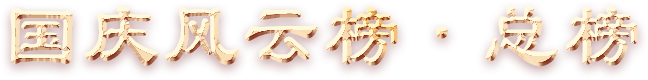
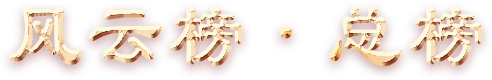
111

diff --git a/fengyun'/src/views/info.vue b/fengyun'/src/views/info.vue
@@ -48,7 +48,7 @@
                   {{ index === 0 ? '7000': (index === 1 ? '4700' : (index === 2 ? '3700' : ( index >=3 && index <=9 ? '2700' : ( index >=10 && index <=19 ? '2000' : (index >=20 && index <=29 ?'1200' : (index >=30 && index <=39 ?'1000' : (index >=40 && index <=49 ? '700' : (index >=50 && index <=59 ? '500' :'300')))))))) }}元京东购物卡
                 </td>
               </tr>
-              <tr v-if="rankingList.length != 0" class="nolist">
+              <tr v-if="rankingList.length == 0" class="nolist">
                 <td>暂无数据</td>
               </tr>
             </tbody>
@@ -71,11 +71,10 @@
         <div class="dialogContent">
           <div class="content">
             <span>1、活动时间：2019年09月29日0:00:00-2019年10月7日23:59:59</span>
-            <span>2、国庆风云榜分为活动期间的总排行榜（简称“总榜”）和每日排行榜（简称“日榜”）。</span>
+            <span>2、风云榜分为活动期间的总排行榜（简称“总榜”）和每日排行榜（简称“日榜”）。</span>
             <span>3、活动期间总榜的前70名用户和日榜的前10名用户均可获得奖励（若出借金额相同时，以出借时间较早者优先排名获奖），每日排名将于当日0:00更新，可点击“查看往期排名”，查看中奖记录。</span>
-            <span>4、兑奖时间为2019年10月9日-2019年10月12日16点，和掌柜客服将每日通知前一日中奖用户信息，并于国庆节后统一兑奖，若超过活动兑奖时间，恕不兑奖。</span>
-            <span>5、本活动最终解释权归成都融证通互联网信息服务有限公司所有，活动期间若发现任何非正常获利行为，有权取消其活动资格。</span>
-            <span>6、如有疑问请致电和掌柜客服电话400-020-0178或添加和掌柜客服微信号（a139lc）进行咨询。</span>
+            <span>4、兑奖时间为2019年10月9日-2019年10月12日16点，和掌柜客服将每日通知前一日中奖用户信息，并于节后统一兑奖，若超过活动兑奖时间，恕不兑奖。</span>
+            <span>5、如有疑问请致电和掌柜客服电话400-020-0178或添加和掌柜客服微信号（a139lc）进行咨询。</span>
           </div>
         </div>
       </van-dialog>
@@ -224,7 +223,7 @@
 
       .ranking_banner {
         margin-top: 20px;
-        width: 648px;
+        width: 492px;
         height: 80px;
 
         img {

diff --git a/jjl/src/view/login.vue b/jjl/src/view/login.vue
@@ -22,7 +22,7 @@
     <van-button class="submit_btn" type="default" round :loading="login_loading" @click="login">确定</van-button>
     <div class="tips">
       <p>网贷有风险 出借需谨慎</p>
-      <p>本活动最终解释权归成都融证通互联网信息服务有限公司所有</p>
+      <!-- <p>本活动最终解释权归成都融证通互联网信息服务有限公司所有</p> -->
     </div>
   </div>
 </template>
@@ -121,6 +121,11 @@
       },
       login() {
         if (this.testPhone() || this.testCode()) {
+          Notify({
+            type: 'danger',
+            message: '请输入正确的手机号和验证码',
+            duration: 2000
+          })
           return
         }
         this.login_loading = true
@@ -169,8 +174,8 @@
 
     .banner {
       padding-top: 60px;
-      width: 686px;
-      height: 551px;
+      width: 745px;
+      height: 437px;
 
       img {
         width: 100%;
@@ -179,7 +184,7 @@
     }
 
     .form {
-      padding-top: 56px;
+      padding-top: 140px;
 
       .phone {
         display: flex;

diff --git a/jjl/src/view/info.vue b/jjl/src/view/info.vue
@@ -93,8 +93,7 @@
         <div class="content">
           <span>1、活动时间：2019年9月29日0:00:00-2019年10月7日23:59:59。</span><br>
           <span>2、活动期间每达到认购金额档位，可点亮五角星，领取奖励。</span><br>
-          <span>3、兑奖时间为2019年10月9日-2019年10月12日16点，用户请联系和掌柜客服进行兑奖，若超过活动兑奖时间，恕不兑奖。</span><br>
-          <span>4、本活动最终解释权归成都融证通互联网信息服务有限公司所有，活动期间若发现任何非正常获利行为，本公司有权取消其活动资格。</span>
+          <span>3、兑奖时间为2019年10月9日-2019年10月12日16点，用户请联系和掌柜客服进行兑奖，若超过活动兑奖时间，恕不兑奖。</span>
         </div>
       </div>
     </van-popup>
@@ -398,8 +397,8 @@
 
     .banner {
       padding-top: 130px;
-      width: 691px;
-      height: 193px;
+      width: 565px;
+      height: 200px;
 
       img {
         width: 100%;

diff --git a/fengyun'/src/views/past.vue b/fengyun'/src/views/past.vue
@@ -73,7 +73,7 @@
         rankingList: [],
         showDate:false,
         currentDate: new Date(),
-        minDate: new Date(2019,8,9),   //修改为9月9号
+        minDate: new Date(2019,8,29),   //修改为9月9号
         maxDate: '',  //当天减一天
         selectedDate:'', //选择的时间
         Date:'',  //传后台时间
@@ -128,7 +128,7 @@
         })
       },
       toShowDate(){
-        if(this.formatDate(new Date(),'yyyyMMdd') !== '20190909' && this.formatDate(new Date(),'yyyyMMdd') !== '20190908'){
+        if(this.formatDate(new Date(),'yyyyMMdd') !== '20190929' && this.formatDate(new Date(),'yyyyMMdd') !== '20190928'){
           this.showDate = true
         }
       }

diff --git a/jjl/src/view/index.vue b/jjl/src/view/index.vue
@@ -6,7 +6,7 @@
     <van-button class="submit_btn" type="default" round @click="$router.push('/info')">点击领取</van-button>
     <div class="tips">
       <p>网贷有风险 出借需谨慎</p>
-      <p>本活动最终解释权归成都融证通互联网信息服务有限公司所有</p>
+      <!-- <p>本活动最终解释权归成都融证通互联网信息服务有限公司所有</p> -->
     </div>
   </div>
 </template>
@@ -45,8 +45,8 @@
 
     .banner {
       padding-top: 105px;
-      width: 686px;
-      height: 551px;
+      width: 745px;
+      height: 437px;
 
       img {
         width: 100%;

diff --git a/fengyun'/src/views/login.vue b/fengyun'/src/views/login.vue
@@ -28,7 +28,7 @@
     </div>
     <div class="tip">
       <span>网贷有风险&nbsp;出借需谨慎</span><br>
-      <span>本活动最终解释权归成都融证通互联网信息服务有限公司所有</span>
+      <!-- <span>本活动最终解释权归成都融证通互联网信息服务有限公司所有</span> -->
     </div>
   </div>
 </template>
@@ -205,9 +205,10 @@
     .banner{
       position: absolute;
       top: 100px;
-      left: 0;
+      left: 50%;
+      transform: translateX(-50%);
       img{
-        width: 750px;
+        width: 635px;
       }
     }
     

diff --git a/fengyun'/src/views/index.vue b/fengyun'/src/views/index.vue
@@ -13,7 +13,7 @@
     </div>
     <div class="tip">
       <span>网贷有风险&nbsp;出借需谨慎</span><br>
-      <span>本活动最终解释权归成都融证通互联网信息服务有限公司所有</span>
+      <!-- <span>本活动最终解释权归成都融证通互联网信息服务有限公司所有</span> -->
     </div>
   </div>
 </template>
@@ -48,9 +48,10 @@
     .banner{
       position: absolute;
       top: 0;
-      left: 0;
+      left: 50%;
+      transform: translateX(-50%);
       img{
-        width: 750px;
+        width: 635px;
       }
     }
   

diff --git a/jjl/config/index.js b/jjl/config/index.js
@@ -13,8 +13,8 @@ module.exports = {
     proxyTable: {
       '/api/jjl0924': {
         // target: 'http://10.10.11.65:8004/',
-        target: 'http://10.10.11.34:8067/',
-        // target: 'http://134.175.20.178:8067/',
+        // target: 'http://10.10.11.34:8067/',
+        target: 'http://134.175.20.178:8067/',
         changeOrigin: true,
         ws: true,
         pathRewrite: {

diff --git a/jjl/index.html b/jjl/index.html
@@ -3,7 +3,7 @@
   <head>
     <meta charset="utf-8">
     <meta name="viewport" content="width=device-width,initial-scale=1,maximum-scale=1,minimum-scale=1,user-scalable=no" />
-    <title>国庆集结令</title>
+    <title>集结令</title>
   </head>
   <body>
     <div id="app"></div>

diff --git a/fengyun'/index.html b/fengyun'/index.html
@@ -4,7 +4,7 @@
 <head>
   <meta charset="utf-8">
   <meta name="viewport" content="width=device-width, initial-scale=1.0,maximum-scale=1,minimum-scale=1,user-scalable=no">
-  <title>国庆风云榜</title>
+  <title>风云榜</title>
 </head>
 
 <body>
